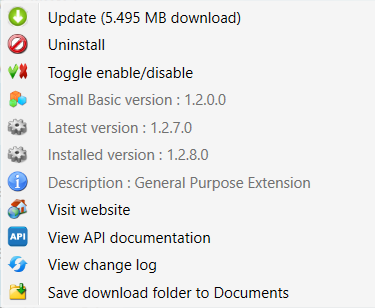
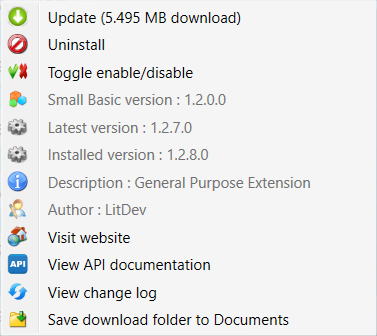
proxy author and blocked dll

diff --git a/ExtensionManager/MainWindow.xaml b/ExtensionManager/MainWindow.xaml
@@ -28,6 +28,7 @@
                         <DataGrid.Columns>
                             <DataGridTextColumn Header="Extension Name" Binding="{Binding Name}" CanUserSort="False"/>
                             <DataGridTextColumn Header="Description" Binding="{Binding Description}" CanUserSort="False"/>
+                            <DataGridTextColumn Header="Author" Binding="{Binding Description}" CanUserSort="False"/>
                             <DataGridHyperlinkColumn Header="WebSite" Binding="{Binding WebSite}" CanUserSort="False">
                             <DataGridHyperlinkColumn.ElementStyle>
                                 <Style TargetType="TextBlock">

diff --git a/ExtensionManagerLibrary/EMWindow.xaml.cs b/ExtensionManagerLibrary/EMWindow.xaml.cs
@@ -16,6 +16,8 @@ using System.Windows.Input;
 using System.Windows.Shapes;
 using System.Windows.Controls.Primitives;
 using System.Net;
+using System.Security;
+using System.Security.Policy;
 
 namespace ExtensionManagerLibrary
 {
@@ -69,17 +71,11 @@ namespace ExtensionManagerLibrary
         private int UpdateDatabase()
         {
             FileInfo fileInf = new FileInfo(databasePath);
-            int iValid = -1;
-            try
-            {
-                if (fileInf.Length > 0) iValid = 1;
-            }
-            catch (Exception ex)
-            {
-            }
+            int iValid = (fileInf.Exists && fileInf.Length > 0) ? 1 :- 1;
             try
             {
                 Uri uri = new Uri("http://litdev.co.uk/extensions/ExtensionDatabase.xml");
+                WebRequest.DefaultWebProxy.Credentials = CredentialCache.DefaultCredentials;
                 HttpWebRequest webRequest = (HttpWebRequest)WebRequest.Create(uri);
 
                 int bufferSize = 2048;
@@ -99,13 +95,17 @@ namespace ExtensionManagerLibrary
                 fs.Close();
                 webResponse.Close();
 
-                if (fileInf.Length > 0)  iValid = 0;
+                if (fileInf.Exists && fileInf.Length > 0)  iValid = 0;
             }
             catch (Exception ex)
             {
-                if (iValid >= 0)
+                if (iValid < 0)
                 {
-                    MessageBox.Show("Database could not be downloaded\nUsing a previous existing version\nWeb downloads will not be possible", "Small Basic Extension Manager Error", MessageBoxButton.OK, MessageBoxImage.Warning);
+                    MessageBox.Show("Database could not be downloaded\n\n" + ex.Message, "Small Basic Extension Manager Error", MessageBoxButton.OK, MessageBoxImage.Error);
+                }
+                else
+                {
+                    MessageBox.Show("Database could not be downloaded\n\n" + ex.Message + "\n\nUsing a previous existing version\nWeb downloads will not be possible", "Small Basic Extension Manager Error", MessageBoxButton.OK, MessageBoxImage.Warning);
                 }
             }
             return iValid;
@@ -140,7 +140,6 @@ namespace ExtensionManagerLibrary
 
             if (UpdateDatabase() < 0)
             {
-                MessageBox.Show("Database could not be downloaded", "Small Basic Extension Manager Error", MessageBoxButton.OK, MessageBoxImage.Error);
                 this.Close();
                 return;
             }
@@ -447,6 +446,18 @@ namespace ExtensionManagerLibrary
                         }
                     }
                     extension.UACcommand(command);
+                    if (null != extension && extension.Valid && bInstall)
+                    {
+                        for (int i = 0; i < extension.smallBasicExtension.dllFiles.numFile; i++)
+                        {
+                            string file = extension.LocalUnZipPath + "\\" + extension.smallBasicExtension.dllFiles.Files[i].File;
+                            Zone zone = Zone.CreateFromUrl(file);
+                            if (File.Exists(file) && zone.SecurityZone != SecurityZone.MyComputer)
+                            {
+                                MessageBox.Show(extension.smallBasicExtension.dllFiles.Files[i].File + " is internet blocked", "Small Basic Extension Manager Error", MessageBoxButton.OK, MessageBoxImage.Warning);
+                            }
+                        }
+                    }
                 }
                 if (bInstall && !extension.Valid)
                 {
@@ -758,6 +769,8 @@ namespace ExtensionManagerLibrary
                     break;
                 case "Description":
                     break;
+                case "Author":
+                    break;
                 case "WebSite":
                     try
                     {
@@ -873,12 +886,12 @@ namespace ExtensionManagerLibrary
             progressBar.Visibility = Visibility.Hidden;
 
             tbInitialise = new TextBox();
-            tbInitialise.Text = "Loading...";
+            tbInitialise.Text = "Downloading Database...";
             tbInitialise.FontSize = 50;
             tbInitialise.BorderThickness = new Thickness(0);
             tbInitialise.Background = new SolidColorBrush(Colors.Transparent);
             canvas.Children.Add(tbInitialise);
-            Canvas.SetLeft(tbInitialise, gridMain.ActualWidth / 2 - 120);
+            Canvas.SetLeft(tbInitialise, gridMain.ActualWidth / 2 - 270);
             Canvas.SetTop(tbInitialise, gridMain.ActualHeight / 2 - 80);
 
             timer = new Timer(OnTimer);

diff --git a/ExtensionManager/MainWindow.xaml.cs b/ExtensionManager/MainWindow.xaml.cs
@@ -22,6 +22,7 @@ namespace ExtensionManager
     {
         public string Name { get; set; }
         public string Description { get; set; }
+        public string Author { get; set; }
         public Uri WebSite { get; set; }
         public Uri API { get; set; }
         public Uri ChangeLog { get; set; }
@@ -41,6 +42,7 @@ namespace ExtensionManager
     {
         public string Name { get; set; }
         public string Description { get; set; }
+        public string Author { get; set; }
         public string WebSite { get; set; }
         public string API { get; set; }
         public string ChangeLog { get; set; }
@@ -215,6 +217,7 @@ namespace ExtensionManager
                 {
                     Name = extension.Name,
                     Description = extension.Description,
+                    Author = extension.Author,
                     WebSite = extension.WebSite,
                     API = extension.API,
                     ChangeLog = extension.ChangeLog,
@@ -253,6 +256,7 @@ namespace ExtensionManager
                 index++;
                 extension.Name = item.Name;
                 extension.Description = item.Description;
+                extension.Author = item.Author;
                 extension.WebSite = item.WebSite;
                 extension.API = item.API;
                 extension.ChangeLog = item.ChangeLog;
@@ -299,6 +303,7 @@ namespace ExtensionManager
                 double zipSize = 0;
                 try
                 {
+                    WebRequest.DefaultWebProxy.Credentials = CredentialCache.DefaultCredentials;
                     WebRequest webRequest = HttpWebRequest.Create(extension.smallBasicExtension.ZipLocation);
                     webRequest.Method = "HEAD";
                     WebResponse webResponse = webRequest.GetResponse();
@@ -311,6 +316,7 @@ namespace ExtensionManager
                 {
                     Name = extension.Name,
                     Description = null == extension.smallBasicExtension.Description ? "" : extension.smallBasicExtension.Description,
+                    Author = null == extension.smallBasicExtension.Author ? "" : extension.smallBasicExtension.Author,
                     WebSite = uriWebsite,
                     API = uriAPI,
                     ChangeLog = uriChangeLog,
@@ -337,6 +343,7 @@ namespace ExtensionManager
                 {
                     Name = extension.Name,
                     //Description = "N/A",
+                    //Author = "Unknown",
                     //WebSite = new Uri(""),
                     //API = new Uri(""),
                     //ChangeLog = new Uri(""),

diff --git a/ExtensionManagerLibrary/EMButton.cs b/ExtensionManagerLibrary/EMButton.cs
@@ -134,6 +134,7 @@ namespace ExtensionManagerLibrary
             {
                 try
                 {
+                    WebRequest.DefaultWebProxy.Credentials = CredentialCache.DefaultCredentials;
                     WebRequest webRequest = HttpWebRequest.Create(extension.smallBasicExtension.ZipLocation);
                     webRequest.Method = "HEAD";
                     WebResponse webResponse = webRequest.GetResponse();
@@ -144,7 +145,7 @@ namespace ExtensionManagerLibrary
                 {
                 }
 
-                if (extension.smallBasicExtension.Description != "")
+                if (null != extension.smallBasicExtension.Description && extension.smallBasicExtension.Description != "")
                 {
                     item = new MenuItem();
                     item.IsChecked = false;
@@ -154,6 +155,20 @@ namespace ExtensionManagerLibrary
                     item.Icon = img;
                     item.Tag = this;
                     item.Name = "Description";
+                    item.IsEnabled = false;
+                    menu.Items.Add(item);
+                }
+
+                if (null != extension.smallBasicExtension.Author && extension.smallBasicExtension.Author != "")
+                {
+                    item = new MenuItem();
+                    item.IsChecked = false;
+                    item.Header = "Author : " + extension.smallBasicExtension.Author;
+                    img = new Image();
+                    img.Source = EMWindow.GetBitmapImage(Properties.Resources.author);
+                    item.Icon = img;
+                    item.Tag = this;
+                    item.Name = "Author";
                     item.IsEnabled = false;
                     menu.Items.Add(item);
                 }

diff --git a/ExtensionManagerLibrary/Extensions.cs b/ExtensionManagerLibrary/Extensions.cs
@@ -195,6 +195,7 @@ namespace ExtensionManagerLibrary
 
                 FileInfo fileInf = new FileInfo(LocalZip);
                 Uri uri = new Uri(smallBasicExtension.ZipLocation);
+                WebRequest.DefaultWebProxy.Credentials = CredentialCache.DefaultCredentials;
                 HttpWebRequest webRequest = (HttpWebRequest)WebRequest.Create(uri);
 
                 int bufferSize = 2048;
@@ -217,7 +218,7 @@ namespace ExtensionManagerLibrary
                 webResponse.Close();
 
                 ProgressStats.currentSize = ProgressStats.fullSize;
-                Downloaded = fileInf.Length > 0;
+                Downloaded = fileInf.Exists && fileInf.Length > 0;
                 if (!Downloaded) Errors.Add("Download extension zip failed");
             }
             catch (Exception ex)

diff --git a/ExtensionManagerLibrary/ExtensionList.cs b/ExtensionManagerLibrary/ExtensionList.cs
@@ -101,6 +101,8 @@ namespace ExtensionManagerLibrary.Schema {
         
         private string descriptionField;
         
+        private string authorField;
+        
         private string webSiteField;
         
         private string aPIField;
@@ -140,6 +142,17 @@ namespace ExtensionManagerLibrary.Schema {
             }
             set {
                 this.descriptionField = value;
+            }
+        }
+        
+        /// <remarks/>
+        [System.Xml.Serialization.XmlElementAttribute(Form=System.Xml.Schema.XmlSchemaForm.Unqualified)]
+        public string Author {
+            get {
+                return this.authorField;
+            }
+            set {
+                this.authorField = value;
             }
         }
         

diff --git a/ExtensionManagerLibrary/Properties/Resources.Designer.cs b/ExtensionManagerLibrary/Properties/Resources.Designer.cs
@@ -93,6 +93,16 @@ namespace ExtensionManagerLibrary.Properties {
         /// <summary>
         ///   Looks up a localized resource of type System.Drawing.Bitmap.
         /// </summary>
+        internal static System.Drawing.Bitmap author {
+            get {
+                object obj = ResourceManager.GetObject("author", resourceCulture);
+                return ((System.Drawing.Bitmap)(obj));
+            }
+        }
+        
+        /// <summary>
+        ///   Looks up a localized resource of type System.Drawing.Bitmap.
+        /// </summary>
         internal static System.Drawing.Bitmap changeLog {
             get {
                 object obj = ResourceManager.GetObject("changeLog", resourceCulture);
